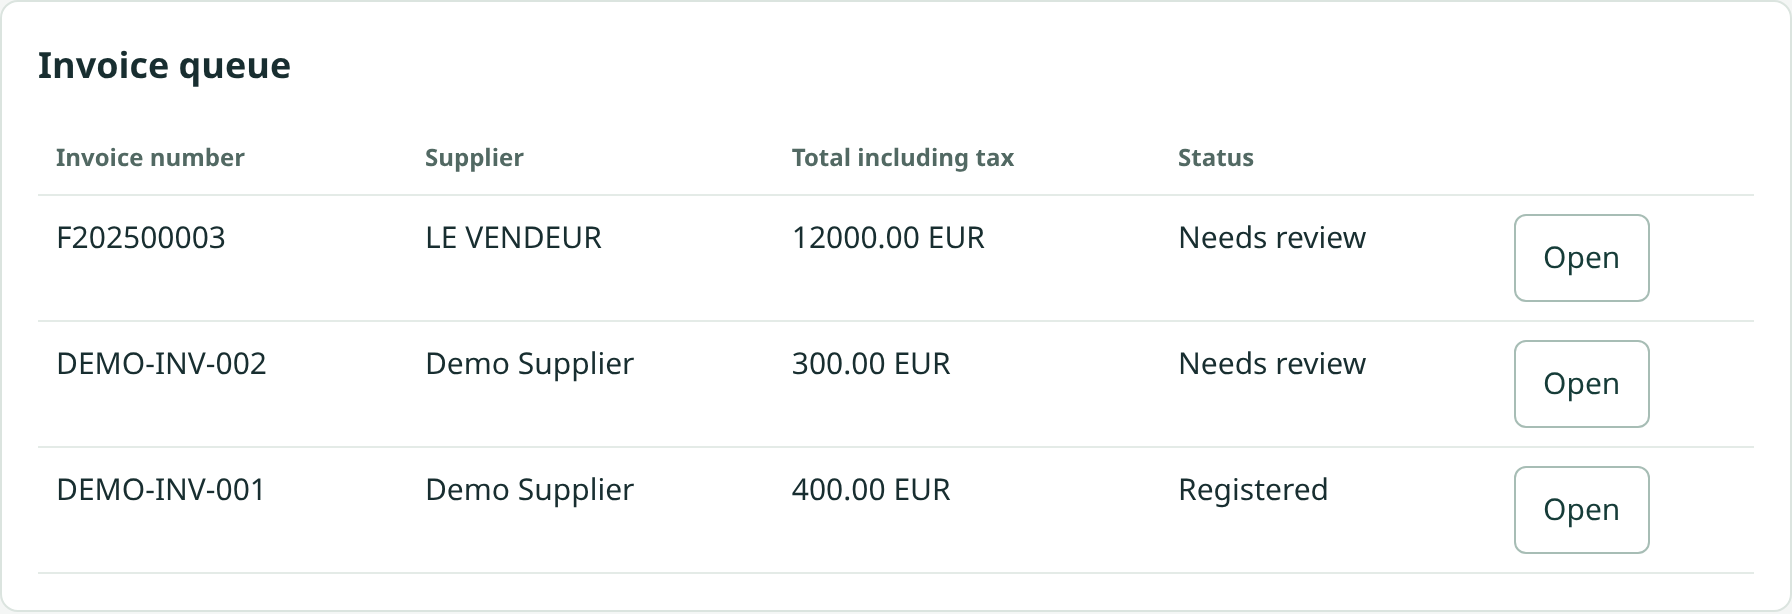
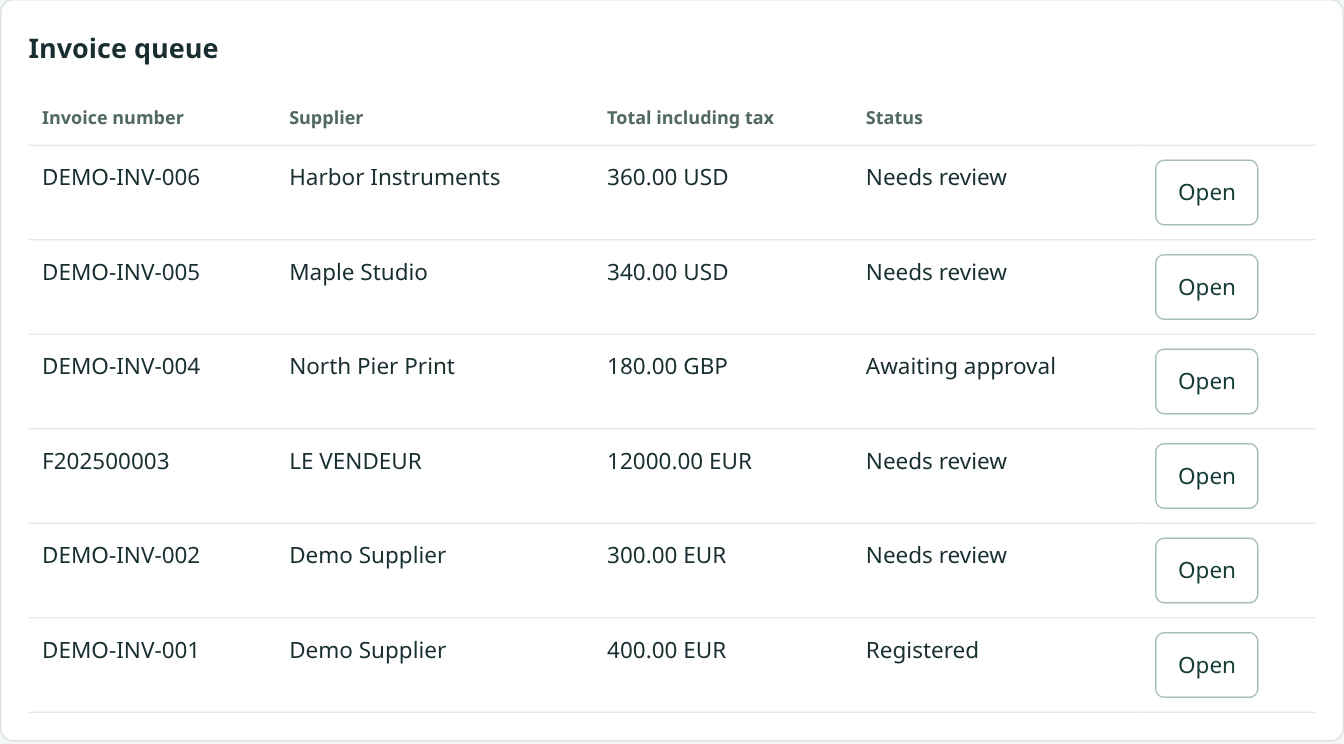
Expand Invoice Review demo from three to six invoices

diff --git a/site/public/projects/invoiceflow/review/index.html b/site/public/projects/invoiceflow/review/index.html
@@ -14,7 +14,7 @@ input{width:100%}label{display:block;font-size:13px;color:#526963}select{max-wid
 <li><strong>明細金額を訂正する · F202500003</strong><br>明細額9,600を原本PDFと照らし合わせ、正しい値に直して「照合し直す」を押します。</li>
 <li><strong>分割請求を確認する · DEMO-INV-002</strong><br>受領済み60個のうち40個は請求済みです。今回の30個を承認できない理由を確認し、追加受領を登録します。</li>
 </ol>
-<p>3件目の DEMO-INV-001 は、上記の40個を登録した請求書です。承認時の記録を参照できます。</p>
+<p>DEMO-INV-001 には40個を承認した記録があります。ほかの3件でも原本PDFと抽出値を比較できます。004は承認待ち、005は通貨、006は発注番号の確認が必要です。</p>
 <p class="muted">処理はブラウザ内で行います。ページを再読み込みすると初期状態に戻ります。</p>
 <div hidden><select id="answer"></select><select id="po"></select>
 <input id="comma" type="checkbox"><button id="ingest" disabled>取り込む</button></div></section>

diff --git a/site/public/projects/invoiceflow/review/en.html b/site/public/projects/invoiceflow/review/en.html
@@ -14,7 +14,7 @@ input{width:100%}label{display:block;font-size:13px;color:#526963}select{max-wid
 <li><strong>Correct a line amount · F202500003</strong><br>Compare the line amount of 9,600 with the source PDF, correct it, then select “Recheck”.</li>
 <li><strong>Review a partial invoice · DEMO-INV-002</strong><br>Of the 60 units received, 40 have already been billed. Check why the request for another 30 units is on hold, then record the additional receipt.</li>
 </ol>
-<p>The third invoice, DEMO-INV-001, accounts for the 40 units already approved. Open it to inspect the approval record.</p>
+<p>DEMO-INV-001 records the earlier approval for 40 units. Try three more sample PDFs: 004 is ready for approval, 005 has a currency discrepancy, and 006 has a purchase order number discrepancy.</p>
 <p class="muted">Changes stay in this browser tab. Reloading or switching languages resets the sample data.</p>
 <div hidden><select id="answer"></select><select id="po"></select>
 <input id="comma" type="checkbox"><button id="ingest" disabled>Import</button></div></section>

diff --git a/site/scripts/check-invoice-review-browser.py b/site/scripts/check-invoice-review-browser.py
@@ -16,6 +16,23 @@ CDN = "https://cdn.jsdelivr.net/pyodide/v314.0.8/full/"
 def check(page, english=False):
     expect(page.locator('header button[onclick="load()"]')).to_have_count(0)
     needs_review = "Needs review" if english else "要確認"
+    expect(page.locator("#queue tr")).to_have_count(6, timeout=60_000)
+    for number, field, correct in [(4, None, None), (5, "currency", "CAD"), (6, "po_number", "DEMO-PO-006")]:
+        code = f"DEMO-INV-{number:03}"
+        sample = page.locator("#queue tr").filter(has_text=code)
+        ready = "Awaiting approval" if english else "承認待ち"
+        expect(sample).to_contain_text(needs_review if field else ready)
+        sample.get_by_role("button").click()
+        expect(page.locator("#pdf")).to_have_attribute("src", f"./sample-{number}.pdf")
+        response = page.request.get(page.locator("#pdf").evaluate("e => e.src"))
+        assert response.ok and response.body().startswith(b"%PDF-")
+        if field:
+            page.locator(f"#f-{field}").fill(correct)
+            page.get_by_role("button", name="Recheck" if english else "照合し直す", exact=True).click()
+        page.locator("#actor").fill("Browser test")
+        page.locator("#note").fill("Verified against sample invoice")
+        page.locator("#approve").click()
+        expect(page.locator("#ledger")).to_contain_text(code)
     row = page.locator("#queue tr").filter(has_text="DEMO-INV-002")
     expect(row).to_contain_text(needs_review, timeout=60_000)
     row.get_by_role("button", name="Open" if english else "開く").click()

diff --git a/site/scripts/sync-invoice-review.py b/site/scripts/sync-invoice-review.py
@@ -33,6 +33,10 @@ def main():
     # Each browser tab owns its database. An action refreshes the queue after writing.
     refresh_button = '<button onclick="load()">一覧を更新</button>'.encode()
     generated["index.html"] = generated["index.html"].replace(refresh_button, b"")
+    generated["index.html"] = generated["index.html"].replace(
+        "3件目の DEMO-INV-001 は、上記の40個を登録した請求書です。承認時の記録を参照できます。".encode(),
+        "DEMO-INV-001 には40個を承認した記録があります。ほかの3件でも原本PDFと抽出値を比較できます。004は承認待ち、005は通貨、006は発注番号の確認が必要です。".encode(),
+    )
     generated["en.html"] = english_page(generated["index.html"].decode()).encode()
     if args.check:
         stale = [name for name, data in generated.items()

diff --git a/site/public/projects/invoiceflow/review/review_bridge.py b/site/public/projects/invoiceflow/review/review_bridge.py
@@ -23,6 +23,11 @@ if flow.approve(db, first["id"], "Demo", "Opening approval", confirmed_gross_tot
 flow.ingest(db, Path(SAMPLES + "invoice-2.json"), PO, False)
 flow.ingest(db, Path(AMOUNT), FIXTURES["fixtures/po-uc1.json"], False)
 
+for number in ("004", "005", "006"):
+    source = Path(f"fixtures/practice/DEMO-INV-{number}.json")
+    order = FIXTURES[f"fixtures/practice/DEMO-PO-{number}.json"]
+    flow.ingest(db, source, order, False)
+
 
 def handle(path, body):
     if path == "/api/files":

diff --git a/site/src/content/projects/invoiceflow.md b/site/src/content/projects/invoiceflow.md
@@ -15,7 +15,7 @@ technologies:
   - Playwright
   - GitHub Actions
 order: 13
-featured: true
+featured: false
 links:
   - label: "GitHub"
     url: "https://github.com/nha6ki/InvoiceFlow"
@@ -33,9 +33,9 @@ In the local workflow, Ollama reads rendered invoice pages. InvoiceFlow compares
 
 ## Inside Invoice Review
 
-[Open Invoice Review](/projects/invoiceflow/review/en.html) to work through the three sample records. Two invoices need attention. The third is an approved invoice whose quantity affects the next approval.
+[Open Invoice Review](/projects/invoiceflow/review/en.html) to explore six invoices. Start with the two guided cases below. Then compare three fictional source PDFs with their extracted values: DEMO-INV-004 is ready for approval, DEMO-INV-005 has a currency discrepancy, and DEMO-INV-006 has a purchase order number discrepancy.
 
-<div class="invoice-figure" style="--figure-width:896px"><a href="/images/projects/invoiceflow/queue-en.png" aria-label="Open full-size image: Invoice Review in the browser with the sample invoice queue loaded."><img src="/images/projects/invoiceflow/queue-en.png" alt="Invoice Review in the browser with the sample invoice queue loaded." width="1792" height="614" loading="lazy"></a></div>
+<div class="invoice-figure" style="--figure-width:896px"><a href="/images/projects/invoiceflow/queue-en.png" aria-label="Open full-size image: Invoice Review in the browser with the sample invoice queue loaded."><img src="/images/projects/invoiceflow/queue-en.png" alt="Invoice Review in the browser with the sample invoice queue loaded." width="1344" height="744" loading="lazy"></a></div>
 
 ## Correct a line amount
 
@@ -45,7 +45,7 @@ Open **F202500003** and compare the first line with the sample PDF. The extracte
 
 ## Release a partial invoice
 
-Open **DEMO-INV-002**. The purchase order covers 100 units, but only 60 have arrived. The third invoice in the queue, **DEMO-INV-001**, already accounts for 40 of them. That leaves 20 available for a new invoice requesting 30.
+Open **DEMO-INV-002**. The purchase order covers 100 units, but only 60 have arrived. The earlier invoice **DEMO-INV-001** already accounts for 40 of them. That leaves 20 available for a new invoice requesting 30.
 
 Add the sample receipt for 10 more units and check how the available balance changes. Read the tax-inclusive total from the PDF, enter it in the confirmation field, and approve the invoice. The approval history records the receipts and earlier invoice used in the decision.
 
@@ -63,7 +63,7 @@ The webhook passes one approved record at a time to the Sheets node. Rows 2 and 
 
 [Open the invoice register in Google Sheets](https://docs.google.com/spreadsheets/d/1lMzjNoQJdlf1jaMvwN8BAMunPins4vZB73U1CruHy88/edit?usp=sharing)
 
-A separate read-back workflow later returned **F202500003** and **F202500004** from rows 2 and 3. The three records in the browser demo and the two rows in this local read-back belong to different sample runs.
+A separate read-back workflow later returned **F202500003** and **F202500004** from rows 2 and 3. The six records in the browser demo and the two rows in this local read-back belong to different sample runs.
 
 <div class="invoice-figure" style="--figure-width:724px"><a href="/images/projects/invoiceflow/n8n-rows.png" aria-label="Open full-size image: Get Row(s) output listing the two invoice numbers returned from Google Sheets."><img src="/images/projects/invoiceflow/n8n-rows.png" alt="Get Row(s) output listing the two invoice numbers returned from Google Sheets." width="724" height="211" loading="lazy"></a></div>
 
